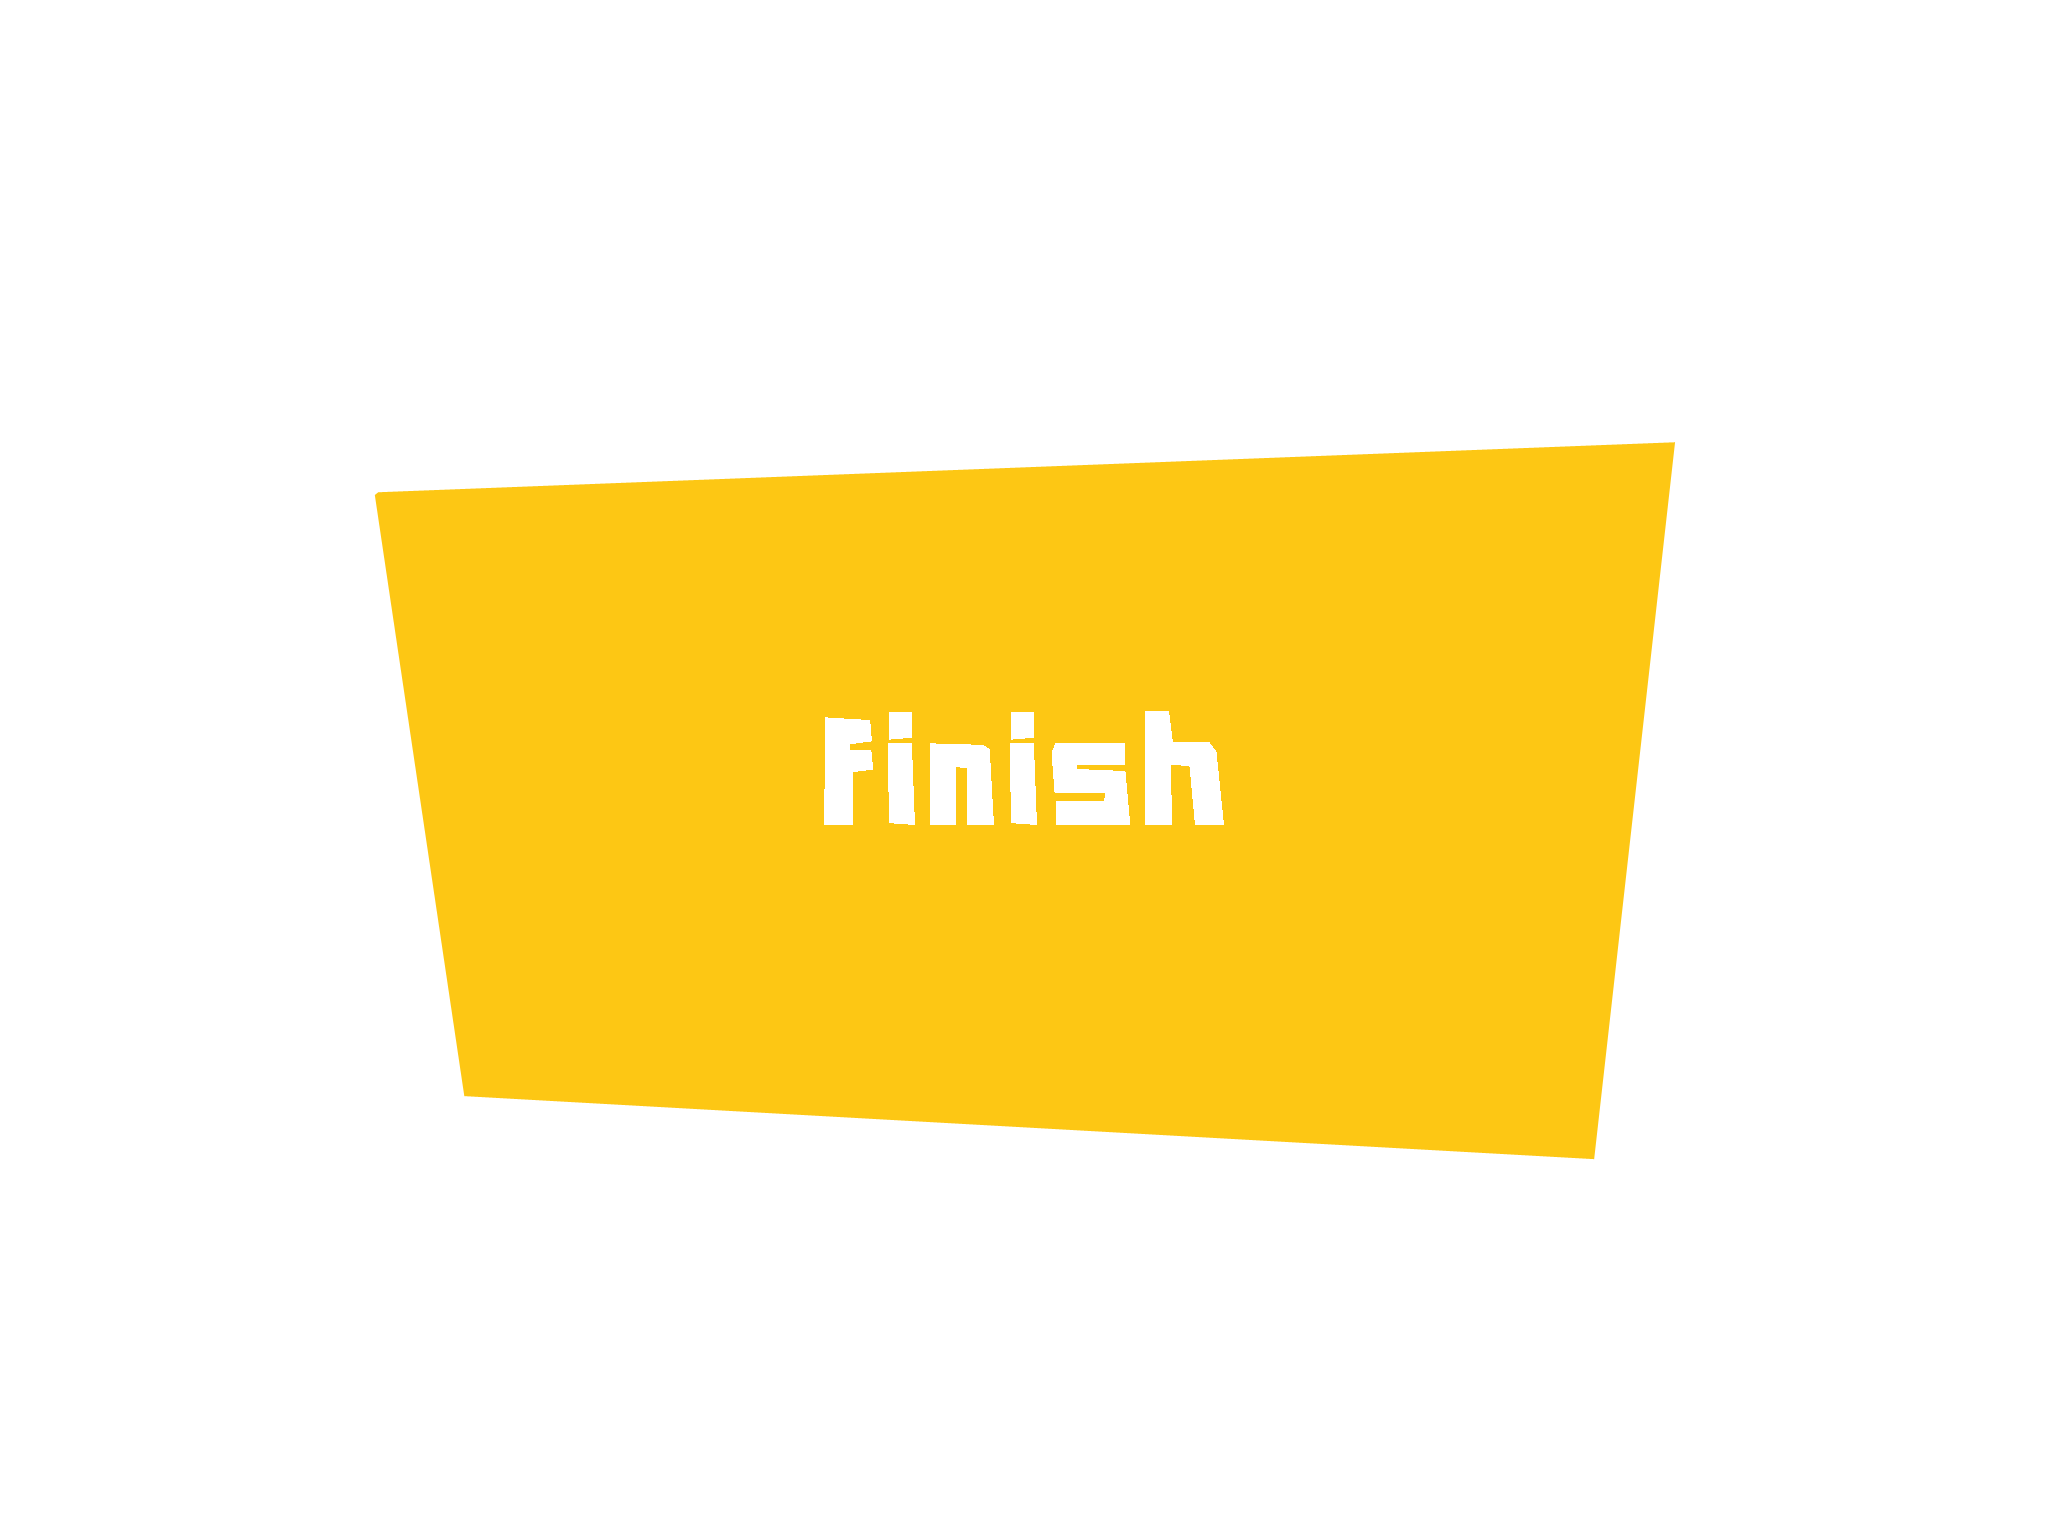
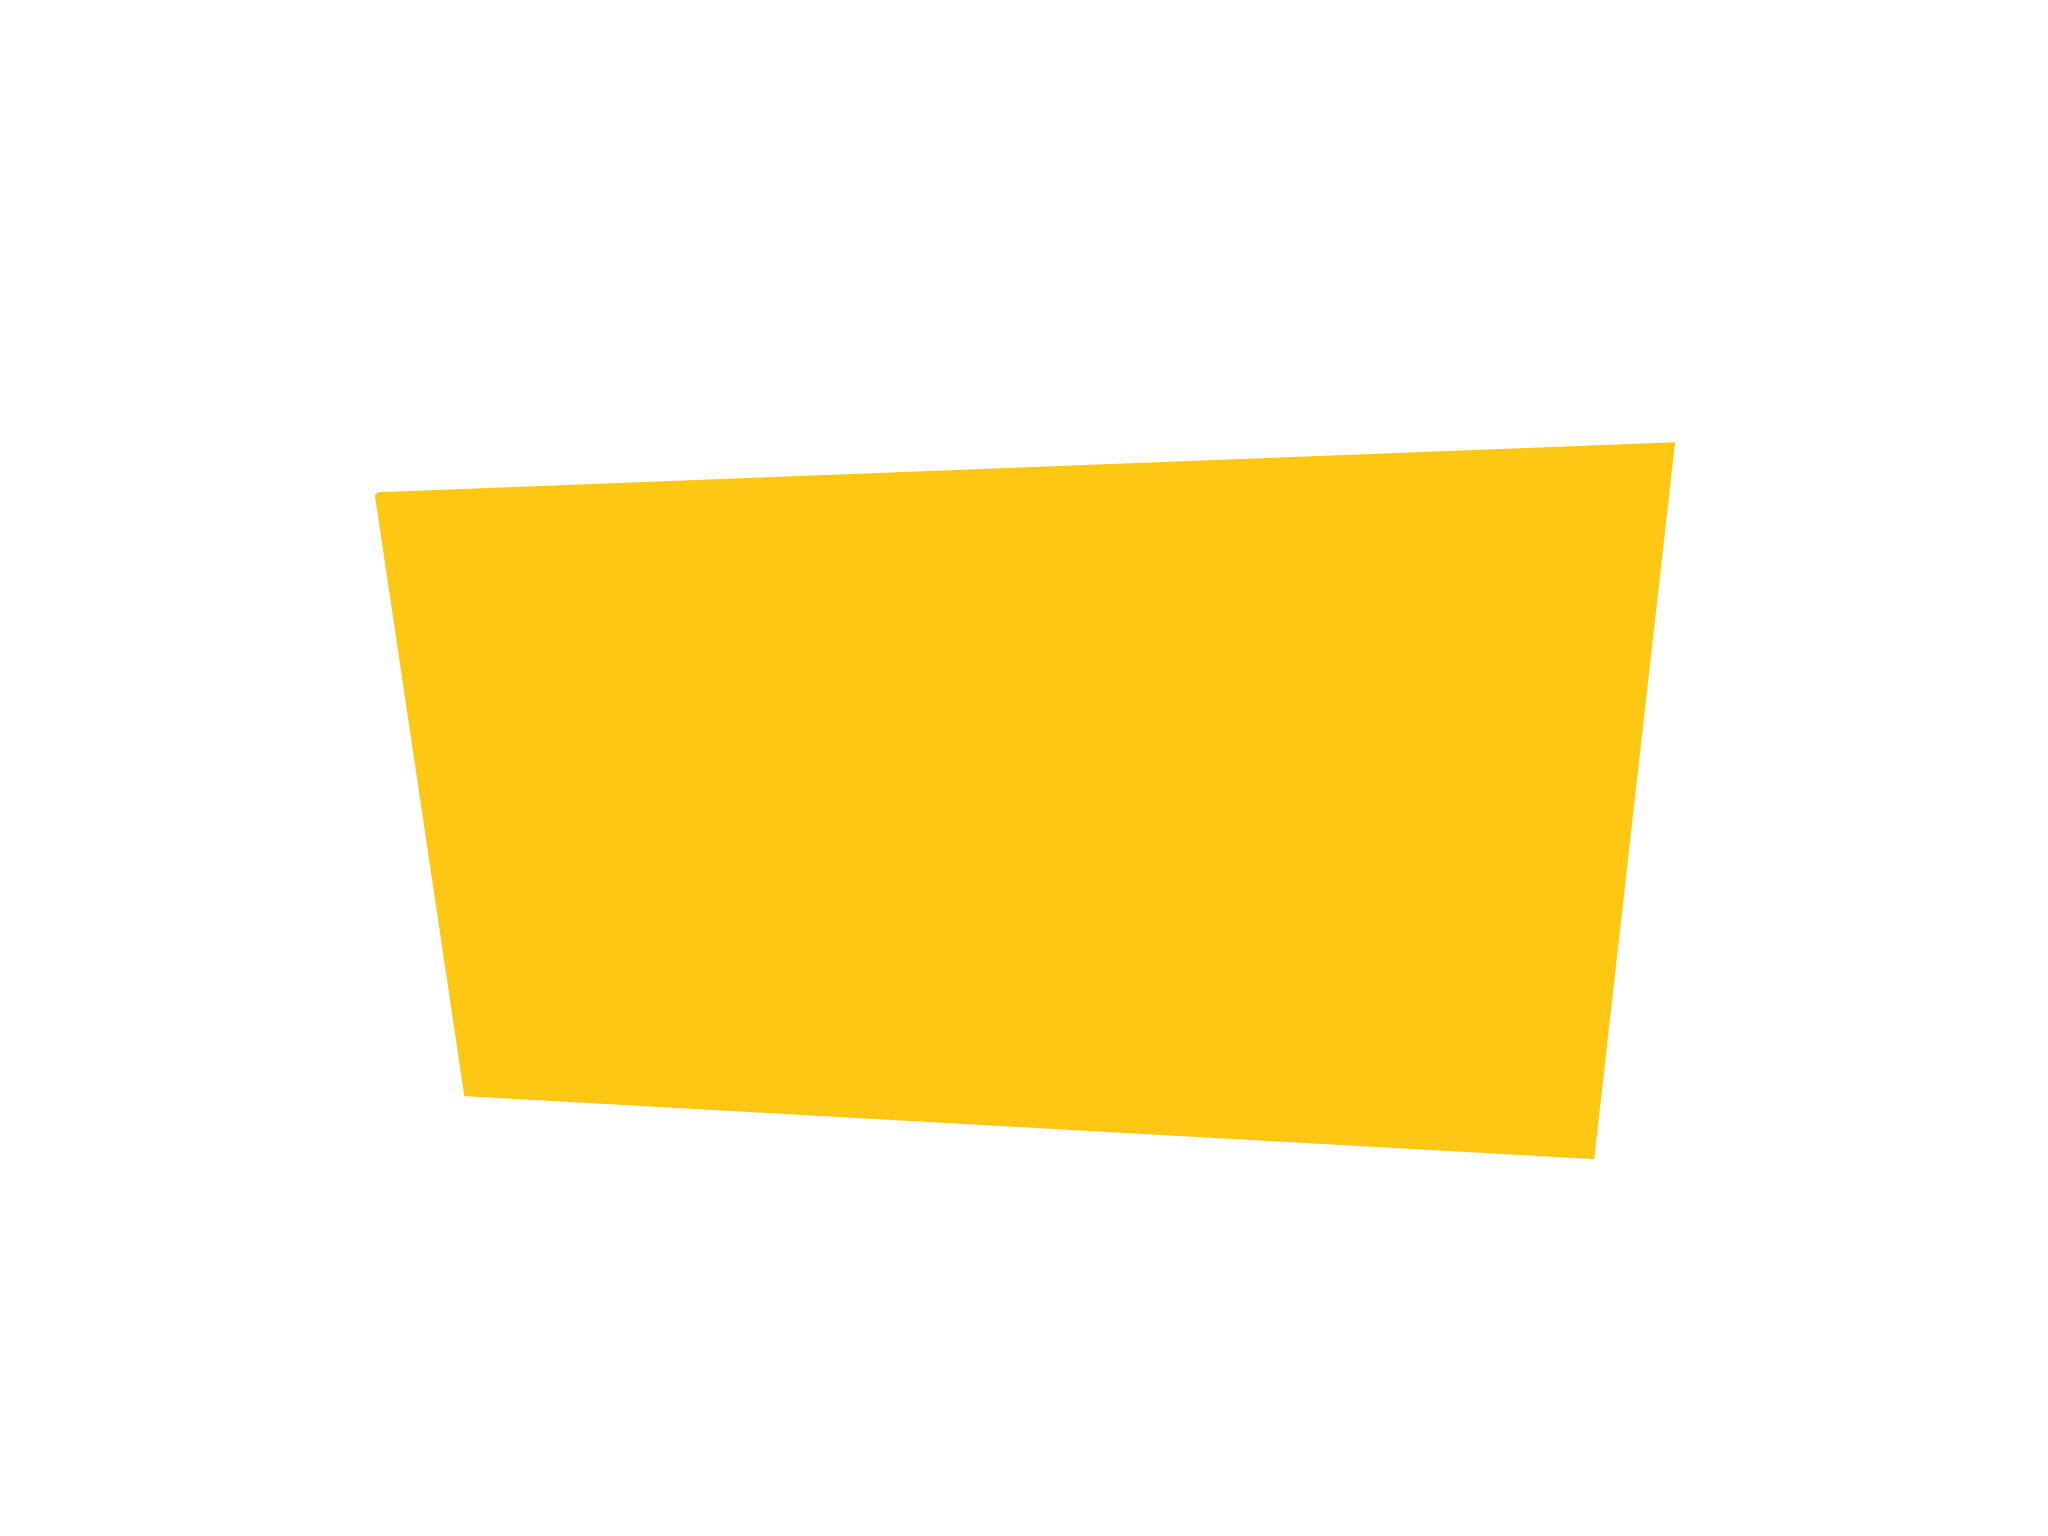
Finish 버튼 영역 줄임. 이미지 두개 수정 및 추가

Changed region(s): [[0.375, 0.4688, 0.5938, 0.5625]]

diff --git a/Classes/GameEndLayer.cpp b/Classes/GameEndLayer.cpp
@@ -14,21 +14,26 @@ bool CGameEndLayer::init()
 	}
 
 	CCSize visibleSize = CCDirector::sharedDirector()->getVisibleSize();
+    
+    CCSprite *pEndBackground = CCSprite::create(PLAYSCENE_GAMEOVER.c_str());
+    pEndBackground->setPosition(ccp(0,0));
+    pEndBackground->setAnchorPoint(ccp(0,0));
+    addChild(pEndBackground,1);
+    
 
 	CCMenuItemImage *pEndButton = CCMenuItemImage::create(
-                                        PLAYSCENE_GAMEOVER.c_str(),
-                                        PLAYSCENE_GAMEOVER.c_str(),
+                                        PLAYSCENE_GAMEOVER_TITLE.c_str(),
+                                        PLAYSCENE_GAMEOVER_TITLE.c_str(),
 										this,
 										menu_selector(CGameEndLayer::gameEndCallback)
 										);
     
-	pEndButton->setPosition(CCPointZero);
-    pEndButton->setAnchorPoint(ccp(0,0));
+	pEndButton->setPosition(ccp(visibleSize.width/2,visibleSize.height/2));
 
 	// create menu, it's an autorelease object
 	CCMenu* pMenu = CCMenu::create(pEndButton, NULL);
 	pMenu->setPosition(CCPointZero);
-	this->addChild(pMenu, 1);
+	this->addChild(pMenu, 2);
     
     return true;
 }

diff --git a/Classes/config.h b/Classes/config.h
@@ -554,6 +554,7 @@ const std::string PLAYSCENE_LAND_UNOCCUPIED = "image/playscene_land_unoccupied.p
 const std::string PLAYSCENE_LAND_OCCUPIED = "image/playscene_land_occupied.png";
 
 const std::string PLAYSCENE_GAMEOVER = "image/playscene_gameover.png";
+const std::string PLAYSCENE_GAMEOVER_TITLE = "image/playscene_gameover_text.png";
 
 const float PLAYSCENE_ANIMATION_TIME = 0.8f;
 
